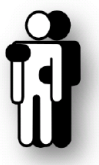
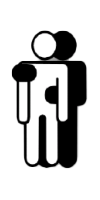
updated pictogram pictures

diff --git a/src/fs3/gui/controller/teacher/tabs/TFunctionalAbilityComponentController.java b/src/fs3/gui/controller/teacher/tabs/TFunctionalAbilityComponentController.java
@@ -71,11 +71,11 @@ public class TFunctionalAbilityComponentController implements Initializable {
         });
 
         limitationImages = List.of(
-                new Image(getClass().getResource("../../../view/resources/0.PNG").toExternalForm()),
-                new Image(getClass().getResource("../../../view/resources/1.PNG").toExternalForm()),
-                new Image(getClass().getResource("../../../view/resources/2.PNG").toExternalForm()),
-                new Image(getClass().getResource("../../../view/resources/3.PNG").toExternalForm()),
-                new Image(getClass().getResource("../../../view/resources/4.PNG").toExternalForm())
+                new Image(getClass().getResource("../../../view/resources/0.png").toExternalForm()),
+                new Image(getClass().getResource("../../../view/resources/1.png").toExternalForm()),
+                new Image(getClass().getResource("../../../view/resources/2.png").toExternalForm()),
+                new Image(getClass().getResource("../../../view/resources/3.png").toExternalForm()),
+                new Image(getClass().getResource("../../../view/resources/4.png").toExternalForm())
         );
     }
 

diff --git a/src/fs3/gui/controller/student/tabs/FunctionalAbilityComponentController.java b/src/fs3/gui/controller/student/tabs/FunctionalAbilityComponentController.java
@@ -70,11 +70,11 @@ public class FunctionalAbilityComponentController implements Initializable {
         });
 
         limitationImages = List.of(
-                new Image(getClass().getResource("../../../view/resources/0.PNG").toExternalForm()),
-                new Image(getClass().getResource("../../../view/resources/1.PNG").toExternalForm()),
-                new Image(getClass().getResource("../../../view/resources/2.PNG").toExternalForm()),
-                new Image(getClass().getResource("../../../view/resources/3.PNG").toExternalForm()),
-                new Image(getClass().getResource("../../../view/resources/4.PNG").toExternalForm())
+                new Image(getClass().getResource("../../../view/resources/0.png").toExternalForm()),
+                new Image(getClass().getResource("../../../view/resources/1.png").toExternalForm()),
+                new Image(getClass().getResource("../../../view/resources/2.png").toExternalForm()),
+                new Image(getClass().getResource("../../../view/resources/3.png").toExternalForm()),
+                new Image(getClass().getResource("../../../view/resources/4.png").toExternalForm())
         );
     }
 

diff --git a/src/fs3/gui/controller/teacher/tabs/assignments/AssignmentsController.java b/src/fs3/gui/controller/teacher/tabs/assignments/AssignmentsController.java
@@ -6,7 +6,6 @@ import fs3.util.PopUp;
 import javafx.fxml.FXML;
 import javafx.fxml.Initializable;
 import javafx.scene.control.ListView;
-import javafx.scene.input.MouseEvent;
 
 import java.net.URL;
 import java.util.ResourceBundle;
